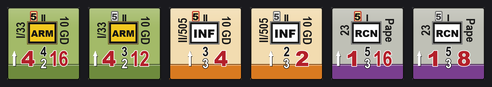
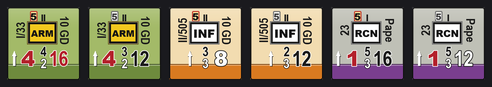
feat: 正反面可用不同移动力类型；HQ 移动力按 TAC/Leg/Truck 分类上色

diff --git a/bcs_render.py b/bcs_render.py
@@ -1,4 +1,4 @@
-# -*- coding: utf-8 -*-
+# -*- coding: utf-8 -*-
 """
 BCS 算子生成器 —— 渲染核心
 版式严格对照 BCS 系列 Unit Key (BCSV/Unit Key.png)：
@@ -232,6 +232,7 @@ class Counter:
     ar_move: str = ""               # 移动面的行动值（留空=沿用 ar）
     quality_move: str = ""          # 移动面的素质值（留空=沿用 quality）
     ma_move: str = ""               # 移动面的机动力（留空=沿用 ma）
+    move_class_move: str = ""       # 移动面的移动力类型 leg/truck/tac（留空=沿用 move_class）
     back_ghost: bool = True         # 移动面是否把 AR 画成虚化样式
     ar_style: str = "box"           # box / disc / ghost / none
     range_style: str = "plain"       # plain=直接印数字 / chip=白底小牌
@@ -677,18 +678,19 @@ def draw_die(c: Ctx, box, value: str, ink: str, pip: str = "#141414"):
         c.ellipse((px_ - r, py_ - r, px_ + r, py_ + r), fill=pip)
 
 
-def draw_badged_value(c: Ctx, xy, txt, h: float, style: dict, bg: str):
+def draw_badged_value(c: Ctx, xy, txt, h: float, style: dict, bg: str, fnt: str = None):
     """按分类给数字上色：fill = 字身色，outline = 描边色。
 
     fill 为 None 时用算子底色冒充“透明底”，只留一圈黑边（Limited AV）。
+    fnt 留空时：两位数用窄体（横向占位 1.13×h），单数字用粗体。
     """
     if not txt:
         return
     fill = style.get("fill") or bg
     hollow = style.get("fill") is None
     txt = str(txt)
-    # 两位数改用窄体：横向占位从 1.67×h 收到约 1.13×h，避免压到中轴上的素质/射程
-    fnt = "narrow_b" if len(txt) >= 2 else "black"
+    if not fnt:
+        fnt = "narrow_b" if len(txt) >= 2 else "black"
     draw_value_symmetric(c, xy, txt, fill, h,
                          halo_w=1.5 if hollow else 1.05, shadow=False, fnt=fnt)
 
@@ -989,7 +991,9 @@ def draw_hq(c: Ctx, ct: Counter, ink: str, value_ink: str):
         draw_fit_text(c, L["HQ_NAME_B"], name, L["HQ_NAME_H"], L["HQ_NAME_MAXW"],
                       L["HQ_BAND_COLOR"], "#141414", 1.15, fnt="narrow_b")
         _hq_num(c, L["HQ_ARTY_B"], ct.arty, ink)
-        _hq_num(c, L["HQ_MA_B"], ct.ma, ink, L["HQ_NUM_H"] * L["HQ_MA_SCALE"], force_black=False, fnt="narrow_b")
+        draw_badged_value(c, L["HQ_MA_B"], ct.ma, L["HQ_NUM_H"] * L["HQ_MA_SCALE"],
+                          MOVE_CLASS_STYLE.get(ct.move_class, MOVE_CLASS_STYLE["tac"]),
+                          ct.bg, fnt="narrow_b")
         return
 
     # 正面：兵牌 + 规模标志 + 炮击点数 + 番号
@@ -1075,7 +1079,8 @@ def render(ct: Counter, size: int = 75, ss: int = 4) -> Image.Image:
     if ct.side == "back":
         ct = ct.copy(ar=ct.ar_move or ct.ar,
                      quality=ct.quality_move or ct.quality,
-                     ma=ct.ma_move or ct.ma)
+                     ma=ct.ma_move or ct.ma,
+                     move_class=ct.move_class_move or ct.move_class)
         if ct.back_ghost and ct.ar_style == "box":
             ct = ct.copy(ar_style="ghost")
 

diff --git a/bcs_moveclass_sheet.py b/bcs_moveclass_sheet.py
@@ -1,0 +1,64 @@
+# -*- coding: utf-8 -*-
+"""移动力类型「分面」与 HQ 移动力分类的样张。
+
+① 战斗单位：战斗面 Leg、移动面 Truck（同一枚算子两面不同色）
+② 指挥部 HQ：背面移动力分别用 TAC / Leg / Truck
+"""
+import os
+import sys
+
+from PIL import Image, ImageDraw
+
+sys.path.insert(0, os.path.dirname(os.path.abspath(__file__)))
+import bcs_render as R  # noqa: E402
+
+for _s in (sys.stdout, sys.stderr):
+    try:
+        _s.reconfigure(encoding="utf-8")
+    except Exception:
+        pass
+
+HERE = os.path.dirname(os.path.abspath(__file__))
+OUT = os.path.join(HERE, "samples")
+os.makedirs(OUT, exist_ok=True)
+
+S = 6
+cell = 75 * S
+pad = 12
+
+# ① 同一枚单位，正面 Leg、反面 Truck
+unit = R.Counter(kind="inf", unit_id="II/505", formation_id="10 GD", size_label="II",
+                 ar="5", quality="3", ma="8", move_class="leg",
+                 ma_move="12", move_class_move="truck",
+                 symbol="inf", bg="#F2DCB0", bar_color="#D97A20")
+imgs = [("战斗面 · Leg 8", R.render(unit.copy(side="front"), 75)),
+        ("移动面 · Truck 12", R.render(unit.copy(side="back"), 75))]
+
+# ② HQ 背面三种移动力类型
+for cls, label in (("tac", "HQ 背面 · TAC"), ("leg", "HQ 背面 · Leg"),
+                   ("truck", "HQ 背面 · Truck")):
+    hq = R.Counter(kind="hq", side="back", formation_id="30 Inf", size_label="XX",
+                   command_radius="10", arty="4", activation="4", ma="8",
+                   move_class=cls, symbol="inf", symbol_mode="glyph",
+                   bg="#7E9B3D", bar_color="#A63A6B")
+    imgs.append((label, R.render(hq, 75)))
+
+cols = 5
+sheet = Image.new("RGBA", (cols * cell + (cols + 1) * pad, cell + 30 + pad),
+                  (26, 26, 30, 255))
+d = ImageDraw.Draw(sheet)
+for i, (label, img) in enumerate(imgs):
+    x = pad + i * (cell + pad)
+    sheet.alpha_composite(img.resize((cell, cell), Image.NEAREST), (x, 26))
+    d.text((x + cell / 2, 6), label, fill="#e6e6e6", anchor="ma",
+           font=R.font("narrow_b", 17))
+
+path = os.path.join(OUT, "move_class_sides.png")
+sheet.convert("RGB").save(path)
+
+# 75px 原尺寸小样
+row = Image.new("RGBA", (cols * 75 + (cols + 1) * 6, 87), (26, 26, 30, 255))
+for i, (_l, img) in enumerate(imgs):
+    row.alpha_composite(img, (6 + i * 81, 6))
+row.convert("RGB").save(os.path.join(OUT, "move_class_sides_75.png"))
+print("ok", path)

diff --git a/bcs_sides_sheet.py b/bcs_sides_sheet.py
@@ -1,4 +1,4 @@
-# -*- coding: utf-8 -*-
+# -*- coding: utf-8 -*-
 """战斗单位正/反面样张：同一枚算子的战斗面与移动面并排，验证布局一致、只换数值。"""
 import os
 import sys
@@ -21,12 +21,15 @@ os.makedirs(OUT, exist_ok=True)
 UNITS = [
     R.Counter(kind="av", unit_id="I/33", formation_id="10 GD", size_label="II", ar="5",
               av="4", quality="4", rng="2", ma="16", ma_move="12", quality_move="3",
+              move_class="tac", move_class_move="truck",
               hard=True, symbol="armor", bg="#A3BA68", bar_color="#6E8B3D"),
     R.Counter(kind="inf", unit_id="II/505", formation_id="10 GD", size_label="II", ar="5",
-              quality="3", ma="4", ma_move="2", quality_move="2",
+              quality="3", ma="8", ma_move="12", quality_move="2",
+              move_class="leg", move_class_move="truck",
               symbol="inf", bg="#F2DCB0", bar_color="#D97A20"),
     R.Counter(kind="dual", unit_id="23", formation_id="Pape", size_label="I", ar="5",
-              av="1", quality="5", ma="16", ma_move="8",
+              av="1", quality="5", ma="16", ma_move="12",
+              move_class="truck", move_class_move="leg",
               symbol="recon", bg="#BFC0B6", bar_color="#7A3E8F"),
 ]
 

diff --git a/bcs_gui.py b/bcs_gui.py
@@ -209,11 +209,18 @@ class App:
                                                    bool(self.vars["hq_box_tint"].get()))
                         ).grid(row=22, column=0, columnspan=2, sticky="w")
 
+        self.vars["move_class_move"] = tk.StringVar()
+        cb_mcm = ttk.Combobox(g, textvariable=self.vars["move_class_move"], state="readonly",
+                              values=["", "leg", "truck", "tac"])
+        row(g, "移动面移动力类型", cb_mcm, 24)
+        cb_mcm.bind("<<ComboboxSelected>>",
+                    lambda e: self._push("move_class_move", self.vars["move_class_move"].get()))
+
         self.vars["back_ghost"] = tk.BooleanVar()
         ttk.Checkbutton(g, text="移动面 AR 虚化（背面）", variable=self.vars["back_ghost"],
                         command=lambda: self._push(
                             "back_ghost", bool(self.vars["back_ghost"].get()))
-                        ).grid(row=23, column=0, columnspan=2, sticky="w")
+                        ).grid(row=25, column=0, columnspan=2, sticky="w")
 
         # --- 配色
         g = group("④ 配色 · 色带")

diff --git a/bcs_demo.py b/bcs_demo.py
@@ -21,7 +21,7 @@ specs = [
             bg="#B7D5EC", band="#5B8FD6", bar_color="#2F5FA8"),
     # 步兵（徒步）
     Counter(kind="inf", unit_id="II/505", formation_id="10 GD", size_label="II", ar="5",
-            quality="3", rng="", ma="8", move_class="leg", hard=False, symbol="inf",
+            quality="3", rng="", ma="8", move_class="leg", ma_move="12", move_class_move="truck", hard=False, symbol="inf",
             bg="#F2DCB0", band="#E8C10C", bar_color="#D97A20"),
     # 双能力
     Counter(kind="dual", unit_id="23", formation_id="Pape", size_label="I", ar="5",
@@ -29,7 +29,7 @@ specs = [
             bg="#BFC0B6", band="#8FA8C8", bar_color="#7A3E8F"),
     # HQ（正面=正常面）
     Counter(kind="hq", side="front", formation_id="30 Inf", command_radius="10",
-            size_label="XX", arty="4", activation="4", ma="8", symbol="inf",
+            size_label="XX", arty="4", activation="4", ma="8", move_class="leg", symbol="inf",
             symbol_mode="glyph", bg="#7E9B3D", bar_color="#6E8B3D"),
     # 辎重
     Counter(kind="train", formation_id="Pape", name="KG", ma="12",
